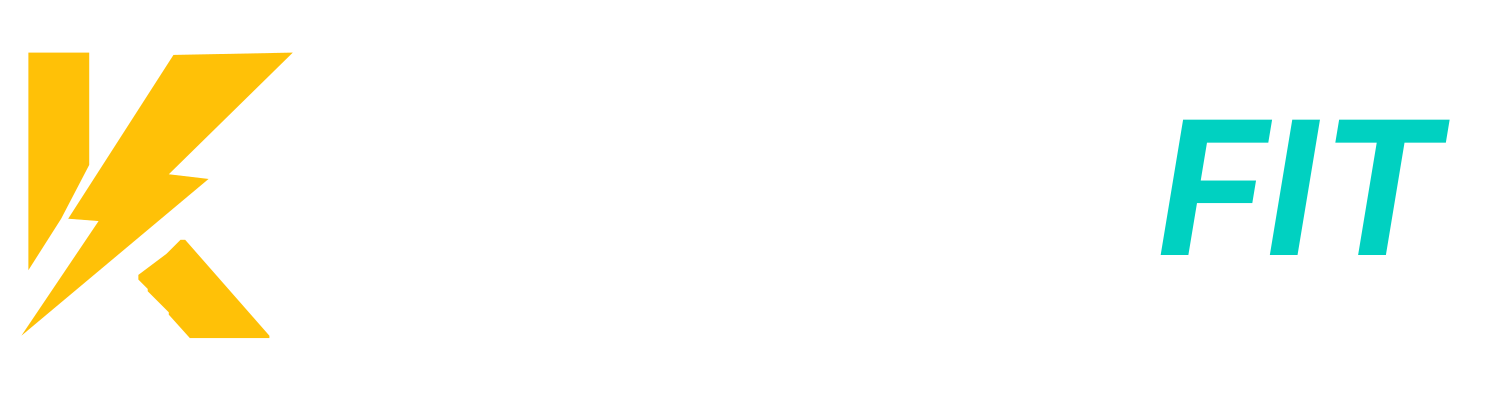
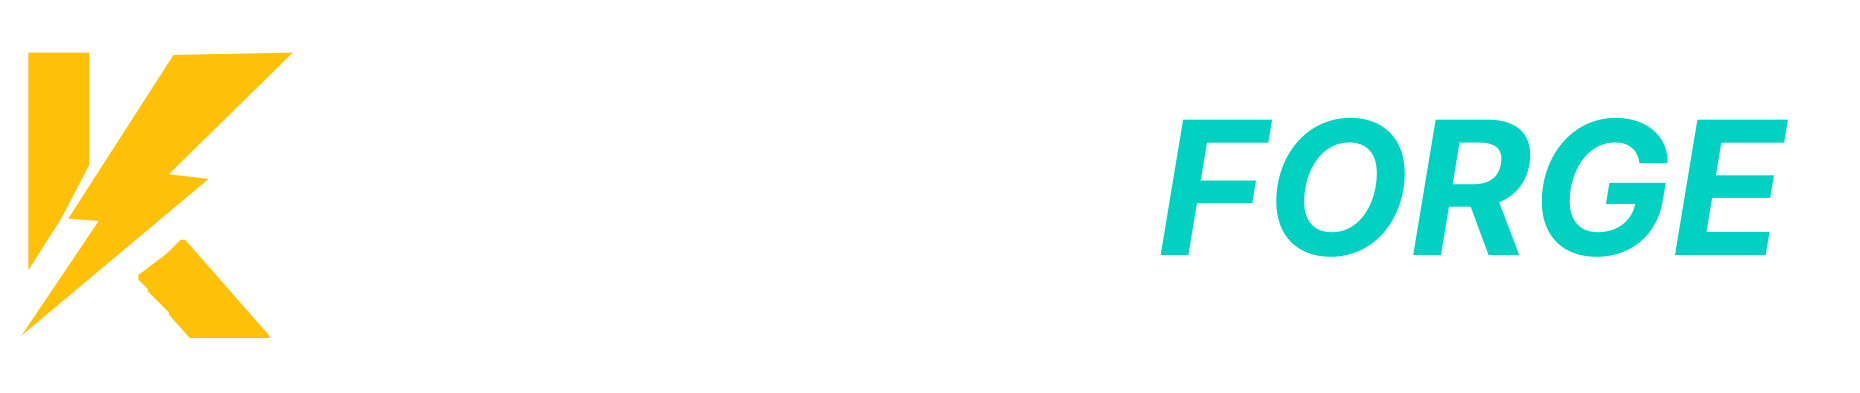
fix(brand): finalize KeylorForge lockups and runtime assets [brand-assets]

Changed region(s): [[0.6133, 0.3053, 0.9507, 0.6718], [0.0, 0.1221, 0.2147, 0.8855], [0.9507, 0.3053, 0.9813, 0.3664]]

diff --git a/brand/README.md b/brand/README.md
@@ -17,9 +17,9 @@ The fixed-color exports are convenience variants derived from the same vector ge
 
 Use these pre-outlined SVG lockups when a complete `KEYLORFORGE` logo is required. The lettering is stored as vector paths, so rendering does not depend on fonts installed on the consuming platform.
 
-- `keylorforge-g4-lockup-horizontal-dark.svg` — yellow mark + white `KEYLOR` + teal `FIT`; default for dark auth surfaces
-- `keylorforge-g4-lockup-horizontal-photo.svg` — white mark + white `KEYLOR` + teal `FIT`; default over dark photography / Welcome
-- `keylorforge-g4-lockup-horizontal-light.svg` — black mark + black `KEYLOR` + teal `FIT`; light surfaces
+- `keylorforge-g4-lockup-horizontal-dark.svg` — yellow mark + white `KEYLOR` + teal `FORGE`; default for dark auth surfaces
+- `keylorforge-g4-lockup-horizontal-photo.svg` — white mark + white `KEYLOR` + teal `FORGE`; default over dark photography / Welcome
+- `keylorforge-g4-lockup-horizontal-light.svg` — black mark + black `KEYLOR` + teal `FORGE`; light surfaces
 - `keylorforge-g4-lockup-stacked-dark.svg` — stacked yellow/white/teal treatment for narrow dark layouts
 - `keylorforge-g4-lockup-stacked-light.svg` — stacked black/teal treatment for narrow light layouts
 
@@ -29,6 +29,7 @@ See [`PREVIEW.md`](./PREVIEW.md) for the visual review sheet rendered from the e
 
 - Yellow: `#FFC107`
 - Teal: `#00D1C1`
+- Teal on light surfaces: `#00AFA1`
 - White: `#FFFFFF`
 - Black: `#0B0B0D`
 

diff --git a/apps/mobile/assets/brand/README.md b/apps/mobile/assets/brand/README.md
@@ -2,7 +2,7 @@
 
 These runtime assets are raster exports derived from the canonical KeylorForge G4 SVG brand masters under `/brand`.
 
-- `keylorforge-g4-lockup-welcome.png` — white G4 mark + white KEYLOR + teal FIT for Welcome/photo surfaces.
-- `keylorforge-g4-lockup-auth.png` — yellow G4 mark + white KEYLOR + teal FIT for dark auth surfaces.
+- `keylorforge-g4-lockup-welcome.png` — white G4 mark + white KEYLOR + teal FORGE for Welcome/photo surfaces.
+- `keylorforge-g4-lockup-auth.png` — yellow G4 mark + white KEYLOR + teal FORGE for dark auth surfaces.
 
 Do not redraw or recolor these files independently. Update the canonical SVG assets first, then regenerate runtime exports.
